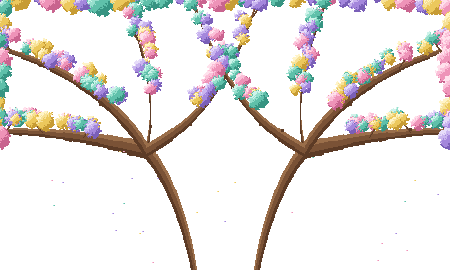
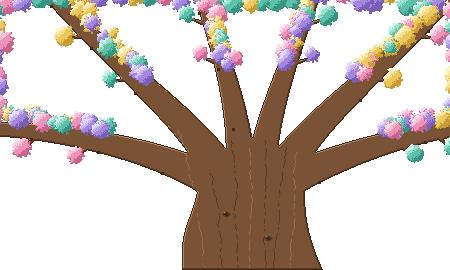
許願樹改成實心樹幹與粗枝，許願牌直接掛在枝條上
- 照草圖：中間一整根塗滿顏色的樹幹，往上分成六根實心粗枝，向兩側與上方擴散
- 樹幹與枝條有深色外框、明暗與一路爬進粗枝的樹皮紋；細枝末端長葉子
- 許願牌的掛點改成粗枝下緣上的點，用短細繩直接掛在枝條上，依序挑選彼此最遠且不重疊的位置

Claude-Session: https://claude.ai/code/session_01TTfJFHpXzGENbNp8eXSsK8

diff --git a/js/systems/treeLayout.js b/js/systems/treeLayout.js
@@ -3,21 +3,21 @@
 export const TREE_W = 900, TREE_H = 540, PLAQUE_W = 72, PLAQUE_H = 100;
 
 export const ANCHORS = Object.freeze([
-  // 由 tools/make_pixel_scenes.py 依許願樹大圖的枝條位置算出來；換了樹的圖要重新調整
-  { x: 300, y: 254, len: 38 },
-  { x: 564, y: 262, len: 38 },
-  { x: 200, y: 210, len: 76 },
-  { x: 700, y: 210, len: 86 },
-  { x: 450, y: 156, len: 148 },
-  { x: 80, y: 132, len: 158 },
-  { x: 820, y: 260, len: 38 },
-  { x: 140, y: 282, len: 138 },
-  { x: 260, y: 310, len: 118 },
-  { x: 380, y: 250, len: 166 },
-  { x: 520, y: 250, len: 174 },
-  { x: 640, y: 310, len: 108 },
-  { x: 760, y: 282, len: 144 },
-  { x: 40, y: 270, len: 152 },
+  // 由 tools/make_pixel_scenes.py 依許願樹大圖的枝條下緣算出來；換了樹的圖要重新調整
+  { x: 270, y: 188, len: 10 },
+  { x: 856, y: 64, len: 22 },
+  { x: 638, y: 366, len: 34 },
+  { x: 600, y: 106, len: 10 },
+  { x: 102, y: 14, len: 22 },
+  { x: 62, y: 280, len: 34 },
+  { x: 850, y: 286, len: 10 },
+  { x: 398, y: 28, len: 22 },
+  { x: 466, y: 260, len: 34 },
+  { x: 324, y: 348, len: 10 },
+  { x: 720, y: 202, len: 22 },
+  { x: 196, y: 306, len: 34 },
+  { x: 436, y: 140, len: 10 },
+  { x: 182, y: 98, len: 22 },
 ]);
 
 /* 第 i 塊牌掛在哪裡。掛點用完後會往旁邊錯開、繩子稍微加長，再繞一輪 */

diff --git a/tools/make_pixel_scenes.py b/tools/make_pixel_scenes.py
@@ -240,63 +240,97 @@ def bezier(p0, p1, p2, p3, t):
 
 
 def wish_tree_big():
-    """許願樹畫面：只有枝條和葉子，背景透明。兩根粗枝從畫面下方中央長上來，
-    在中間分岔後一路往外、往上擴散到畫面兩側與上緣，葉子集中在往外伸的那一段。
-    許願牌用細繩掛在枝條的下緣。回傳 (圖, 掛點)"""
+    """許願樹畫面（照草圖）：中間是一整根塗滿顏色的粗樹幹，往上分成幾根粗枝向兩側與上方擴散，
+    枝條本身都是實心塗滿的；葉子長在枝條往外的末端與畫面邊緣。許願牌直接用細繩掛在枝條上。
+    背景透明。回傳 (圖, 掛點)"""
     r = random.Random(7)
     im = new(TW, TH)
-    D, M, L = '#5c3b26', '#7a5236', '#9a6e4a'
-    # 枝條：三次貝茲曲線，由內往外畫（起點粗、終點細）。最後一欄：從哪裡開始長葉子（0~1；大於 1 = 不長）
-    HL, HR = (146, 150), (304, 150)                         # 左右兩個分岔點
-    branches = [
-        ((196, 282), (186, 220), (168, 176), HL, 15, 9, 2),         # 左邊的粗枝（從畫面下方長上來，不長葉子）
-        ((254, 282), (264, 220), (282, 176), HR, 15, 9, 2),         # 右邊的粗枝
-        (HL, (104, 140), (50, 128), (-14, 132), 9, 2, 0.35),        # 往左，低
-        (HL, (118, 104), (70, 66), (-14, 44), 9, 2, 0.3),           # 往左上
-        (HL, (156, 106), (148, 54), (118, -14), 8, 2, 0.35),        # 往上偏左
-        (HL, (192, 124), (226, 96), (262, -14), 7, 2, 0.4),         # 往中間上方（和右邊那根交叉）
-        (HR, (346, 140), (400, 128), (464, 132), 9, 2, 0.35),       # 往右，低
-        (HR, (332, 104), (380, 66), (464, 44), 9, 2, 0.3),          # 往右上
-        (HR, (294, 106), (302, 54), (332, -14), 8, 2, 0.35),        # 往上偏右
-        (HR, (258, 124), (224, 96), (188, -14), 7, 2, 0.4),         # 往中間上方（和左邊那根交叉）
+    OUT, D, M, L, HI = '#3f2818', '#5c3b26', '#7a5236', '#946a47', '#b08560'
+    solid = {}                                             # 樹幹與枝條佔到的像素 → 是第幾根（-1 = 樹幹）
+
+    # 1. 樹幹：左右兩條邊線之間整片塗滿，下面寬、往上收窄
+    for y in range(150, TH):
+        k = (y - 150) / (TH - 150)
+        left = 196 - 14 * k ** 1.6 - 4 * math.sin(y / 17)
+        right = 300 + 22 * k ** 1.6 + 3 * math.sin(y / 23 + 1)
+        for x in range(int(left), int(right) + 1):
+            solid[(x, y)] = -1
+
+    # 2. 粗枝：沿著曲線、寬度由粗到細的實心帶狀；起點埋在樹幹上緣
+    boughs = [
+        ((204, 176), (150, 150), (70, 130), (-16, 128), 17, 7),    # 往左，低
+        ((214, 162), (180, 110), (120, 70), (40, -16), 18, 7),     # 往左上
+        ((240, 156), (236, 100), (220, 50), (196, -16), 15, 6),    # 往上偏左
+        ((262, 156), (272, 100), (292, 50), (318, -16), 15, 6),    # 往上偏右
+        ((288, 162), (322, 110), (382, 70), (462, -16), 18, 7),    # 往右上
+        ((296, 176), (352, 150), (420, 130), (466, 128), 17, 7),   # 往右，低
     ]
-    branch_ys = {}                                         # 每個 x 上有枝條的 y（掛繩子用）
-    twig_tips = []
-    paths = []
-    for p0, p1, p2, p3, w0, w1, leaf_from in branches:
-        pts = [bezier(p0, p1, p2, p3, i / 240) for i in range(241)]
-        paths.append((pts, leaf_from))
+    curves = []
+    for bi, (p0, p1, p2, p3, w0, w1) in enumerate(boughs):
+        pts = [bezier(p0, p1, p2, p3, i / 300) for i in range(301)]
+        curves.append(pts)
         for i, (x, y) in enumerate(pts):
-            w = w0 * (1 - i / 240) + w1 * (i / 240)
-            for k in range(-int(w), int(w) + 1):
-                c = L if k < -w * 0.4 else D if k > w * 0.45 else M
-                X, Y = round(x), round(y + k)
-                px(im, X, Y, c)
-                if 0 <= X < TW and 0 <= Y < TH:
-                    branch_ys.setdefault(X, set()).add(Y)
-        for t in ((0.45, 0.7, 0.9) if leaf_from <= 1 else ()):   # 往上翹的細枝，末端長一小叢葉子
-            x, y = bezier(p0, p1, p2, p3, t)
-            side = r.choice([-1, 1])
-            for k in range(12):
-                px(im, round(x + side * k * 0.7), round(y - k), M)
-                px(im, round(x + side * k * 0.7) + 1, round(y - k), D)
-            twig_tips.append((x + side * 8, y - 13))
-    # 葉子：沿著枝條的「上方」長，枝條下方保持乾淨，繩子和許願牌才看得清楚
-    lumps = []
-    for pts, leaf_from in paths:                          # 一小叢一小叢、中間留空，看得到枝條；越往外越密
-        if leaf_from > 1:
+            w = w0 + (w1 - w0) * (i / 300) ** 0.8
+            for yy in range(int(y - w), int(y + w) + 1):
+                for xx in range(int(x - w), int(x + w) + 1):
+                    if (xx - x) ** 2 + (yy - y) ** 2 <= w * w:
+                        solid.setdefault((xx, yy), bi)
+    # 細枝（也是實心，只是細）：從粗枝的後半段長出去，末端長一叢葉子
+    twig_tips = []
+    for bi, pts in enumerate(curves):
+        for t in (0.55, 0.78):
+            x, y = pts[int(t * 300)]
+            ang = math.atan2(pts[int(t * 300) + 5][1] - y, pts[int(t * 300) + 5][0] - x) - (0.9 if bi < 3 else -0.9)
+            for k in range(26):
+                cx_, cy_ = x + math.cos(ang) * k, y + math.sin(ang) * k
+                w = 3.2 - k * 0.09
+                for yy in range(int(cy_ - w), int(cy_ + w) + 1):
+                    for xx in range(int(cx_ - w), int(cx_ + w) + 1):
+                        if (xx - cx_) ** 2 + (yy - cy_) ** 2 <= w * w:
+                            solid.setdefault((xx, yy), 10 + bi)
+            twig_tips.append((x + math.cos(ang) * 26, y + math.sin(ang) * 26))
+
+    # 3. 上色：深色外框、左上亮右下暗、樹皮紋
+    for (x, y), b in solid.items():
+        if not (0 <= x < TW and 0 <= y < TH):
             continue
-        for i in range(int(leaf_from * 240), 236, 18):
+        if any((x + dx, y + dy) not in solid for dx, dy in ((1, 0), (-1, 0), (0, 1), (0, -1))):
+            c = OUT
+        else:
+            lx = (x + 1, y) not in solid or (x + 2, y) not in solid
+            ly = (x, y + 1) not in solid or (x, y + 2) not in solid
+            ux = (x - 1, y) not in solid or (x - 2, y) not in solid or (x, y - 2) not in solid
+            c = D if (lx or ly) else HI if ux else M
+        px(im, x, y, c)
+    for i in range(7):                                     # 樹皮紋：從樹根往上彎彎曲曲爬，一路延伸進粗枝
+        x = 206 + i * 14 + r.uniform(-3, 3)
+        y = TH - 2
+        top = r.randrange(120, 175)
+        while y > top:
+            X = round(x)
+            if solid.get((X, y)) is not None and im.getpixel((X, y)) == rgb(M):
+                px(im, X, y, D if i % 3 else L)
+            y -= 1
+            x += r.choice([-1, 0, 0, 0, 1]) * 0.6 + (X - 250) * 0.004
+            if r.random() < 0.08:
+                y -= r.randrange(2, 6)                         # 斷一小段，不要變成直線
+    for x, y in ((226, 214), (268, 238)):                  # 樹幹上兩個樹節
+        ellipse(im, x, y, 4, 3, D)
+        ellipse(im, x, y, 2, 1.5, OUT)
+        px(im, x - 2, y - 2, HI)
+
+    # 4. 葉子：長在粗枝往外的後半段（枝條上方）、細枝末端、畫面上緣與兩側
+    lumps = []
+    for pts in curves:
+        for i in range(150, 296, 16):
             x, y = pts[i]
             for _ in range(2):
-                lumps.append((x + r.uniform(-7, 7), y - r.uniform(9, 17), r.choice([6, 7, 8, 9]), r.randrange(4)))
-        tx, ty = pts[-14]                                  # 枝頭再多一叢
-        lumps.append((tx + r.uniform(-3, 3), ty - 8, 9, r.randrange(4)))
+                lumps.append((x + r.uniform(-8, 8), y - r.uniform(10, 18), r.choice([7, 8, 9, 10]), r.randrange(4)))
     for x, y in twig_tips:
-        lumps.append((x, y, r.choice([6, 7, 8]), r.randrange(4)))
-    for x in range(-10, TW + 10, 16):                       # 上緣與兩側是枝條往外長的末端，葉子最茂密
+        lumps.append((x, y - 3, r.choice([8, 9, 10]), r.randrange(4)))
+    for x in range(-10, TW + 10, 16):
         lumps.append((x + r.uniform(-4, 4), r.uniform(-8, 4), r.choice([9, 11, 13]), r.randrange(4)))
-    for y in range(10, 140, 16):
+    for y in range(10, 120, 16):
         for x in (r.uniform(-6, 4), TW + r.uniform(-4, 6)):
             lumps.append((x, y + r.uniform(-4, 4), r.choice([9, 11, 12]), r.randrange(4)))
     owner = {}
@@ -318,38 +352,55 @@ def wish_tree_big():
                     c = d_
                 px(im, x, y, c)
                 owner[(x, y)] = k
-    for (x, y), k in list(owner.items()):                 # 交界處的混色
+    for (x, y), k in list(owner.items()):
         for nx, ny in ((x + 1, y), (x, y + 1)):
             k2 = owner.get((nx, ny))
             if k2 is not None and k2 != k and r.random() < 0.5:
                 px(im, x, y, SETS[k2][1])
-    for _ in range(80):                                   # 葉間的閃光
+    for _ in range(70):
         x, y = r.randrange(TW), r.randrange(TH)
         if (x, y) in owner and r.random() < 0.5:
             px(im, x, y, '#ffffff')
-    for _ in range(26):                                   # 飄在空中的花瓣
-        x, y = r.randrange(10, TW - 10), r.randrange(150, TH - 6)
-        k = r.randrange(4)
-        px(im, x, y, SETS[k][2])
-        px(im, x + 1, y, SETS[k][1])
 
-    # 許願牌的掛點（座標是 900×540）。兩排：上排的牌頂大約在 y=290、下排大約在 y=420，
-    # 繩長 = 牌頂 − 枝條下緣，所以兩排一定不會疊在一起
-    rows = [(320, 292), (580, 300), (200, 286), (700, 296), (450, 304), (80, 290), (820, 298),
-            (140, 420), (260, 428), (380, 416), (520, 424), (640, 418), (760, 426), (40, 422)]
-    anchors = []
-    for fx, top in rows:
-        # 找這個 x 上「離牌頂至少 40 的最低一根枝條」；正上方沒有就往左右最多 12 格找
-        limit = (top - 40) // 2
-        ok = lambda x: any(y <= limit for y in branch_ys.get(x, ()))
-        hx = next((fx // 2 + d for d in sorted(range(-12, 13), key=abs) if ok(fx // 2 + d)), None)
-        if hx is None:
-            raise SystemExit(f'x={fx} 附近沒有枝條可以掛許願牌，請調整 branches 或 rows')
-        hy = max(y for y in branch_ys[hx] if y <= limit)
-        fx = hx * 2
-        ellipse(im, hx, hy, 1.6, 1.6, D)                   # 綁繩子的小結
-        anchors.append({'x': fx, 'y': hy * 2 + 2, 'len': top - (hy * 2 + 2)})
-    return im, anchors
+    # 5. 許願牌掛點：粗枝「下緣」上的點，牌子用短細繩直接掛在枝條上。
+    #    依序挑：每次選離已選的牌最遠、而且牌子不會和已選的牌疊在一起的位置（座標換算成 900×540）
+    PW, PH = 72, 100
+    cands = []
+    for bi, pts in enumerate(curves):
+        for i in range(40, 290, 6):
+            x, y = pts[i]
+            X = round(x)
+            if not (20 <= X <= TW - 20):
+                continue
+            under = max((yy for (xx, yy), b in solid.items() if xx == X and b == bi and abs(yy - y) < 22), default=None)
+            if under is None or (X, under + 1) in owner:
+                continue
+            cands.append((X * 2, under * 2 + 2))
+    picked = []
+    def rect_of(ax, ay, ln):
+        return (ax - PW / 2, ay + ln, ax + PW / 2, ay + ln + PH)
+    def overlap(a, b):
+        return max(0, min(a[2], b[2]) - max(a[0], b[0])) * max(0, min(a[3], b[3]) - max(a[1], b[1]))
+    start = min(cands, key=lambda c: (c[0] - 260) ** 2 + (c[1] - 190) ** 2)
+    order = [start]
+    while len(picked) < 14:
+        best, best_d = None, -1
+        for (ax, ay) in (order if not picked else cands):
+            ln = 10 + 12 * (len(picked) % 3)
+            rc = rect_of(ax, ay, ln)
+            if rc[0] < 0 or rc[2] > 900 or rc[3] > 540:
+                continue
+            if any(overlap(rc, rect_of(px_, py_, pl)) > PW * PH * 0.1 for px_, py_, pl in picked):
+                continue
+            d = min((math.hypot(ax - px_, ay - py_) for px_, py_, _ in picked), default=1e9)
+            if d > best_d:
+                best, best_d = (ax, ay, ln), d
+        if best is None:
+            raise SystemExit(f'只排得下 {len(picked)} 塊許願牌，請調整枝條')
+        picked.append(best)
+    for ax, ay, ln in picked:                              # 綁繩子的小結
+        ellipse(im, ax / 2, (ay - 2) / 2, 1.6, 1.6, OUT)
+    return im, [{'x': ax, 'y': ay, 'len': ln} for ax, ay, ln in picked]
 
 
 # ───────────────────────── 全螢幕畫面的背景 ─────────────────────────

diff --git a/docs/ASSETS.md b/docs/ASSETS.md
@@ -114,7 +114,7 @@ assets/scenes/    全螢幕畫面背景    assets/fx/        召喚特效
 
 ### 暫用的像素圖
 
-`tools/make_pixel_assets.py` 會用程式畫出目前所有地圖圖塊、成就小屋、地圖物件；`tools/make_pixel_scenes.py` 畫出四種卡背（漩渦中浮出一隻鴨子）、許願樹大圖（只有從中央往外擴散的枝條與葉子，背景透明）、各個全螢幕畫面的背景。兩支都輸出到 `assets/`，並已填進 `js/data/assets.js`。
+`tools/make_pixel_assets.py` 會用程式畫出目前所有地圖圖塊、成就小屋、地圖物件；`tools/make_pixel_scenes.py` 畫出四種卡背（漩渦中浮出一隻鴨子）、許願樹大圖（中間一整根實心的樹幹，往上分成粗枝向外擴散，葉子在枝條末端，背景透明）、各個全螢幕畫面的背景。兩支都輸出到 `assets/`，並已填進 `js/data/assets.js`。
 
 `make_pixel_scenes.py` 執行完會印出許願牌的掛點座標，這組座標已經放進 `js/systems/treeLayout.js`；之後換了自己的樹，要依自己的枝條位置改這組座標。
 這些是暫用的：換成自己的圖時，覆蓋同名檔案或在清單改路徑即可。**換過之後就不要再執行那支程式**，否則會被蓋回去。
